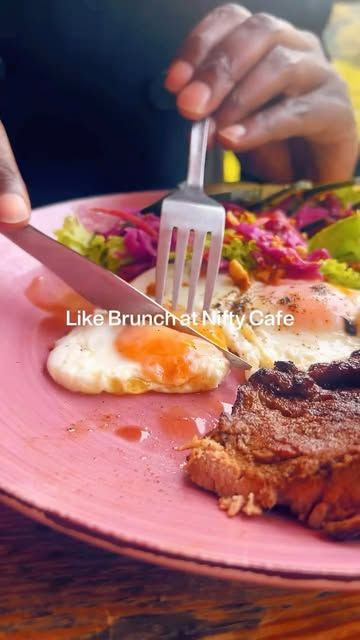
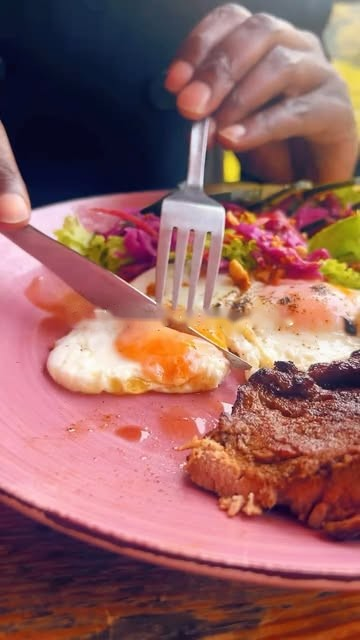
Remove burned-in Instagram captions from photos
- Sundown band: crop to the caption-free top of the frame, stronger blur
- Wine pour and brunch plate: inpaint the text out

Changed region(s): [[0.1833, 0.4688, 0.825, 0.5312]]

diff --git a/assets/css/style.css b/assets/css/style.css
@@ -291,7 +291,7 @@ footer{background:var(--forest);padding:5rem 0 6.5rem;border-top:1px solid var(-
 .mf figcaption span{font-size:.8rem;opacity:.75}
 
 .band{position:relative;padding:9rem 0;overflow:hidden;text-align:center;isolation:isolate}
-.band-bg{position:absolute;inset:-10%;background-size:cover;background-position:center;filter:blur(3px) saturate(1.2) brightness(.8);z-index:-2;transform:scale(1.05)}
+.band-bg{position:absolute;inset:-10%;background-size:cover;background-position:center;filter:blur(5px) saturate(1.2) brightness(.8);z-index:-2;transform:scale(1.05)}
 .band::after{content:"";position:absolute;inset:0;background:linear-gradient(180deg,rgba(11,20,16,.75),rgba(11,20,16,.35) 40%,rgba(11,20,16,.35) 60%,rgba(11,20,16,.8));z-index:-1}
 .band-in{display:grid;justify-items:center;gap:1.2rem}
 .band h2{font-size:clamp(3rem,9vw,7.5rem);line-height:.95}
